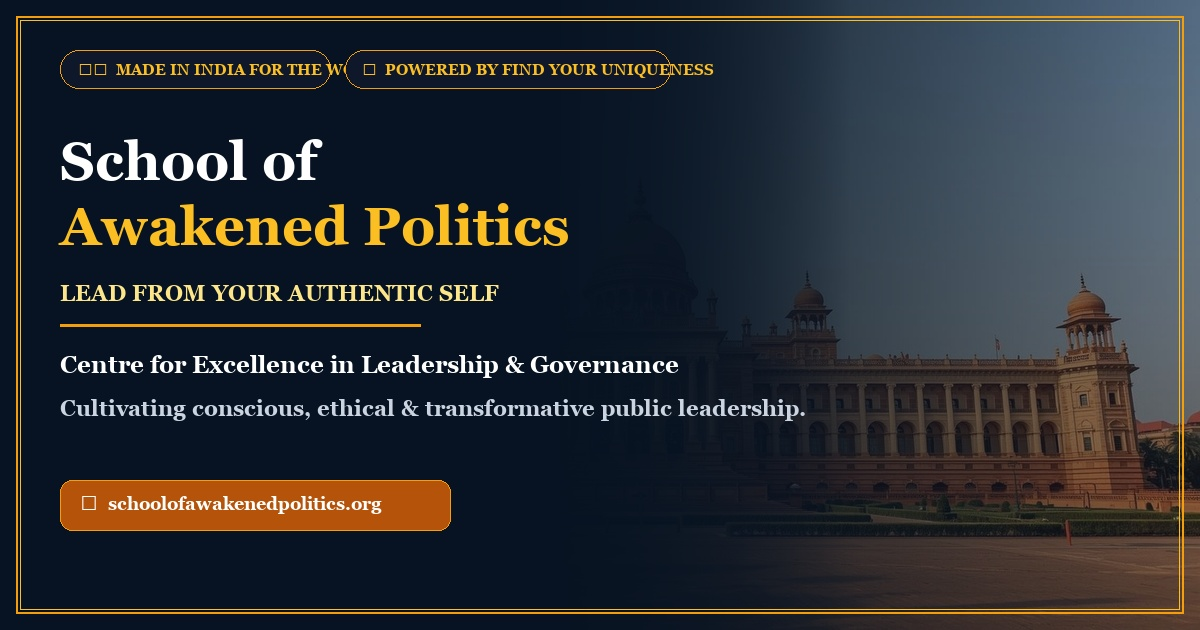
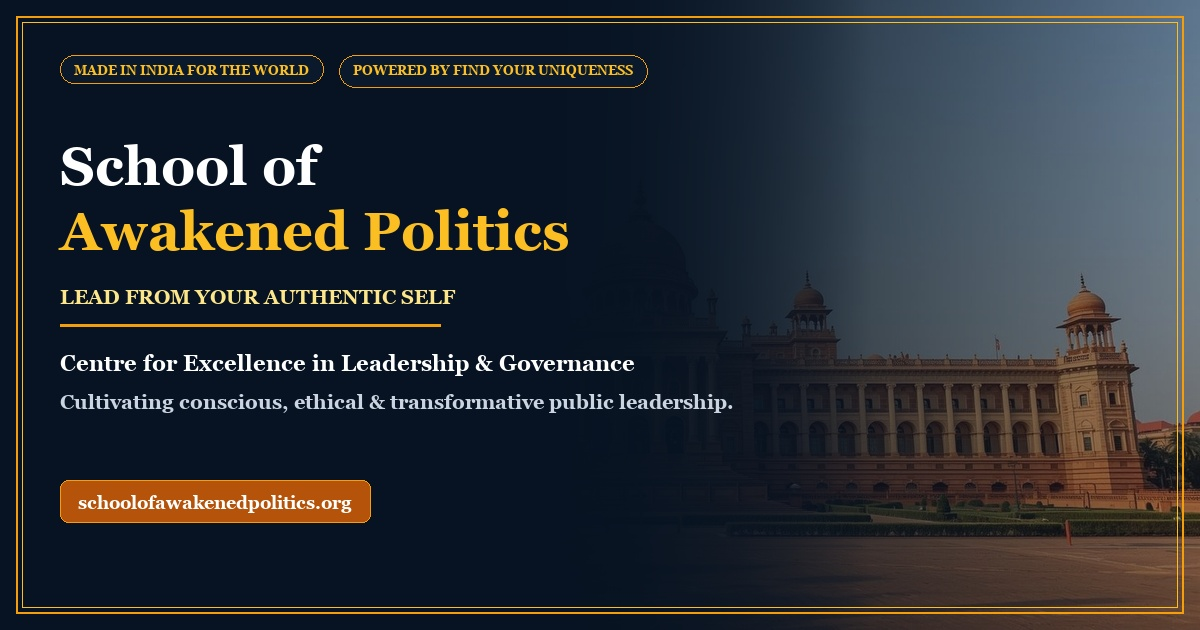
fix(og): deploy clean non-emoji og-card.jpg and update metadata references

diff --git a/index.html b/index.html
@@ -18,7 +18,7 @@
   <meta property="og:type" content="website">
   <meta property="og:url" content="https://schoolofawakenedpolitics.org/">
   <meta property="og:title" content="School of Awakened Politics | Nurturing Consciously Engineered World Leaders">
-  <meta property="og:image" content="https://schoolofawakenedpolitics.org/og-image.jpg">
+  <meta property="og:image" content="https://schoolofawakenedpolitics.org/og-card.jpg?v=2">
   <meta property="og:site_name" content="School of Awakened Politics">
   <meta property="og:locale" content="en_US">
 
@@ -27,7 +27,7 @@
   <meta name="twitter:url" content="https://schoolofawakenedpolitics.org/">
   <meta name="twitter:title" content="School of Awakened Politics | Lead from Your Authentic Self">
   <meta name="twitter:description" content="Pioneering modern political thought, political mindfulness, and transdisciplinary statecraft. Explore our flagship 1-Year Fellowship and Publishing Platform.">
-  <meta name="twitter:image" content="https://schoolofawakenedpolitics.org/og-image.jpg">
+  <meta name="twitter:image" content="https://schoolofawakenedpolitics.org/og-card.jpg?v=2">
 
   <!-- Schema.org JSON-LD Structured Data for Google Rich Snippets & Knowledge Graph -->
   <script type="application/ld+json">
